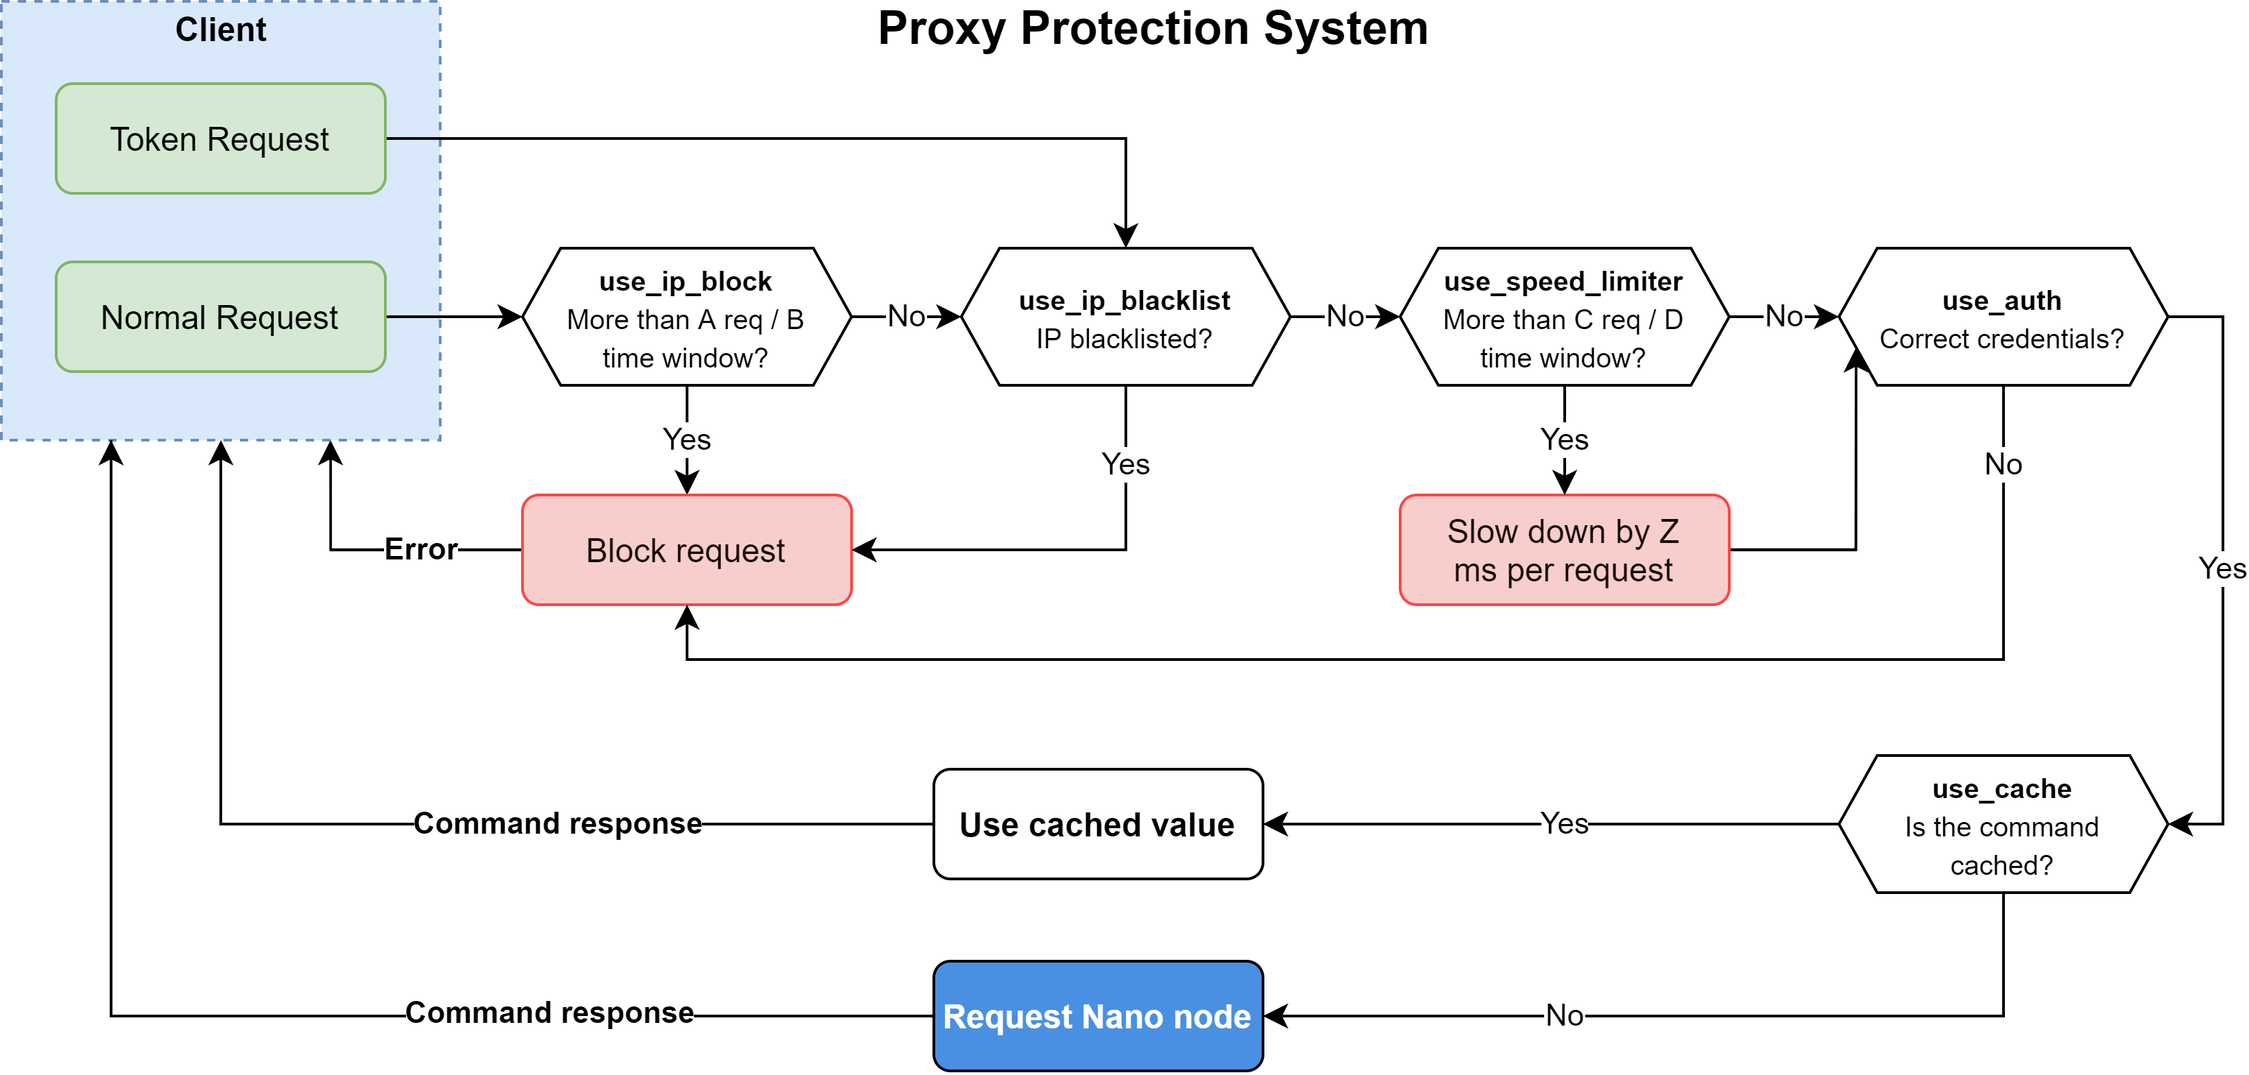
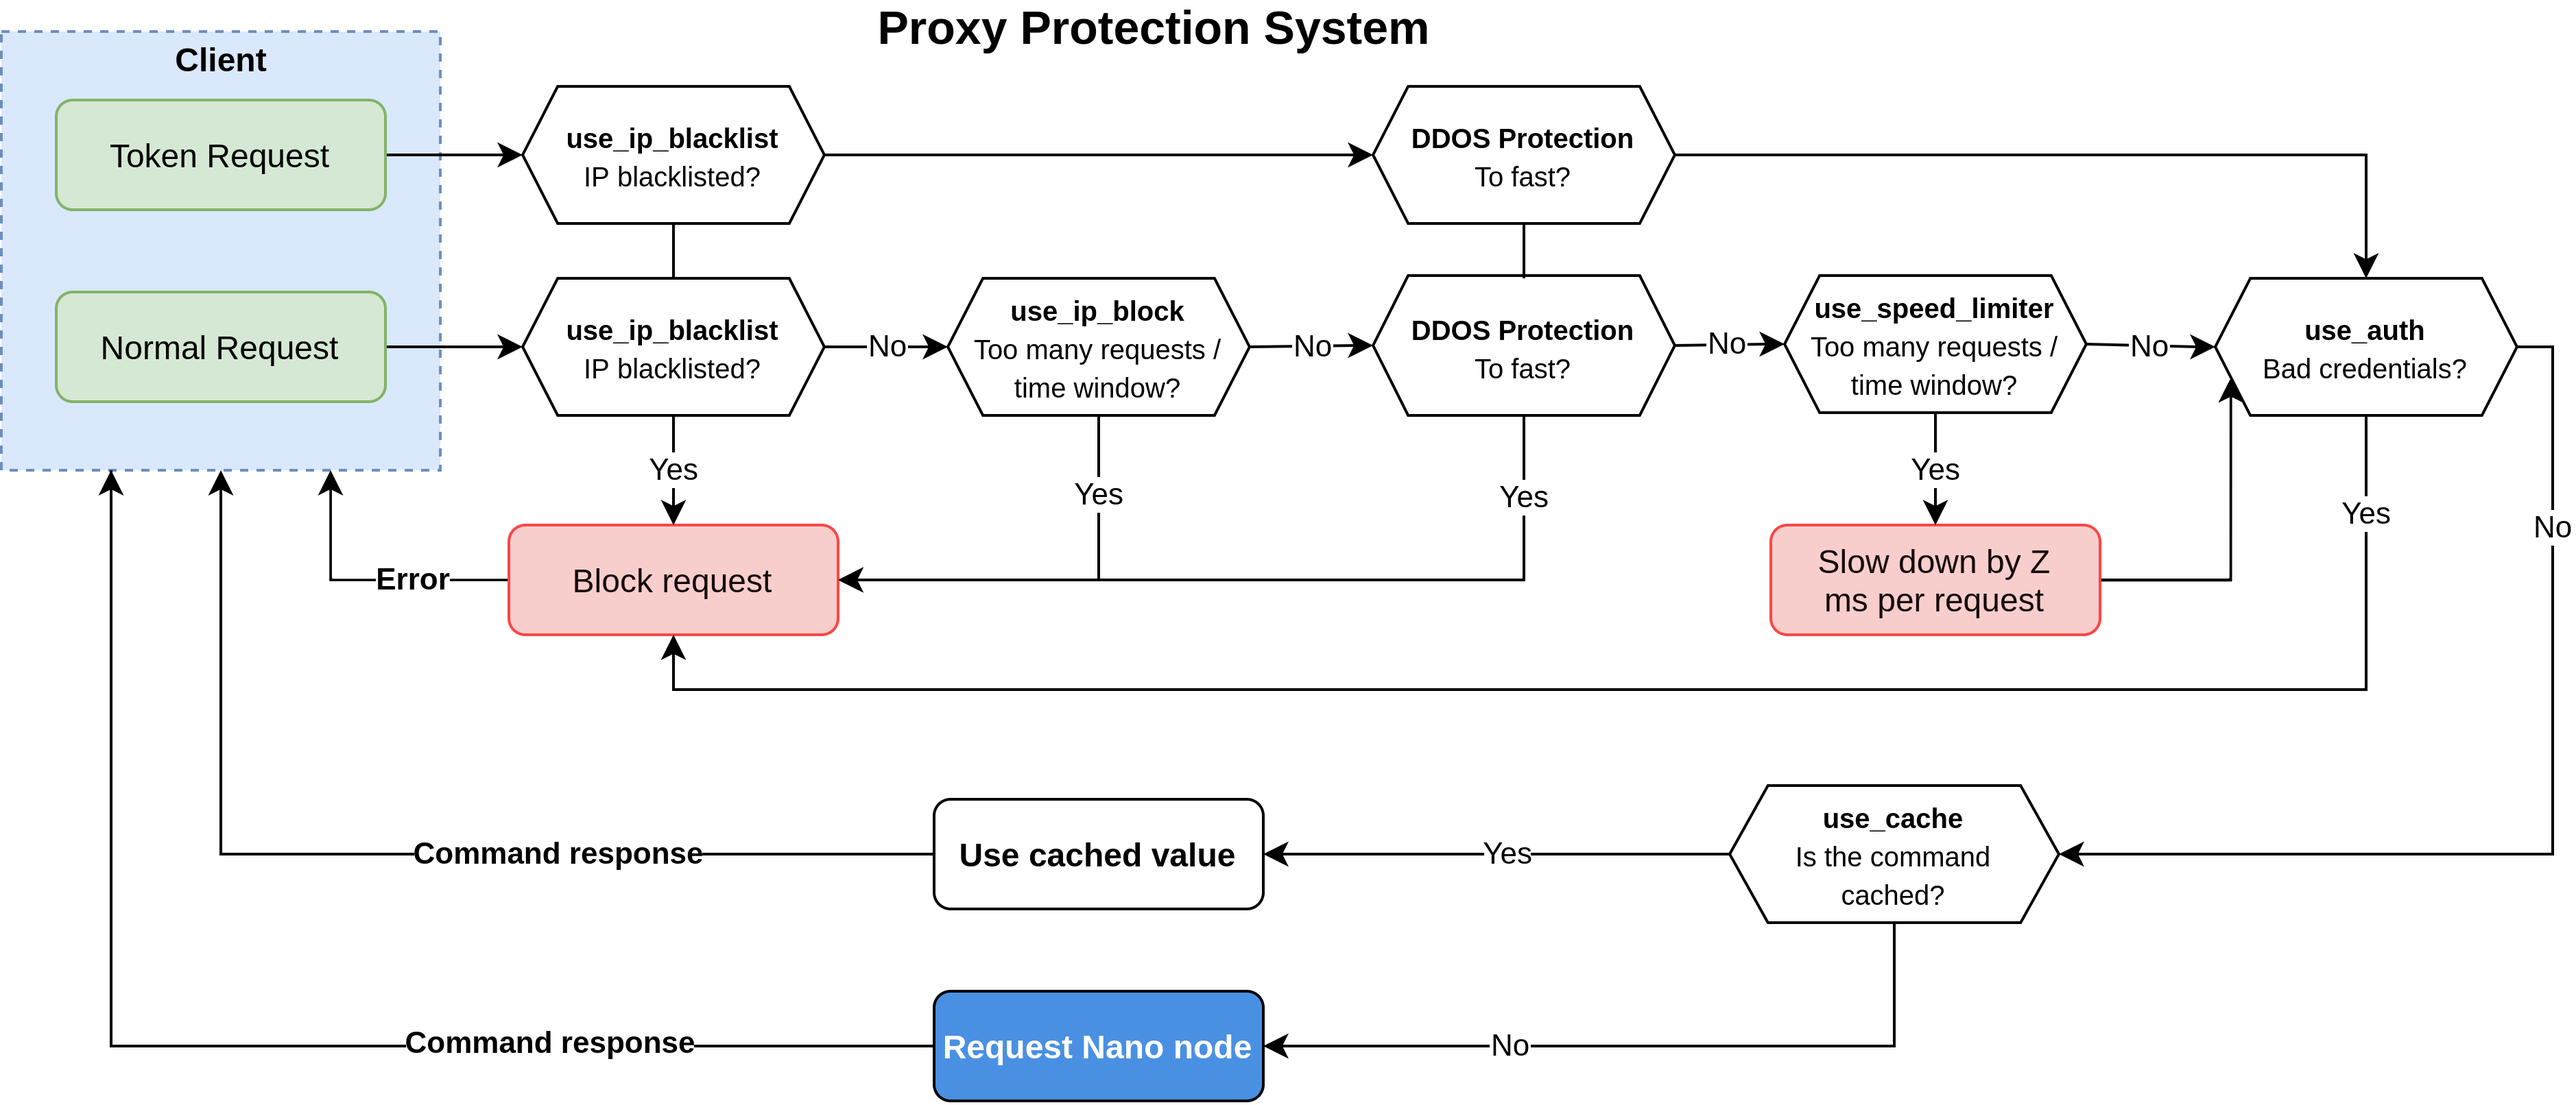
Better ddos protection

diff --git a/src/server/proxy.js b/src/server/proxy.js
@@ -2,7 +2,6 @@ require('dotenv').config() // load variables from .env into the environment
 require('console-stamp')(console)
 const NodeCache =     require("node-cache" )
 const SlowDown =      require("express-slow-down")
-const RateLimit =     require("express-rate-limit")
 const BasicAuth =     require('express-basic-auth')
 const Http =          require('http')
 const Https =         require('https')
@@ -16,6 +15,7 @@ const Schedule =      require('node-schedule')
 const Tokens =        require('./tokens')
 const Tools =         require('./tools')
 const log_levels = {none:"none", warning:"warning", info:"info"}
+const { RateLimiterMemory, RateLimiterUnion } = require('rate-limiter-flexible')
 
 // lowdb init
 const Low = require('lowdb')
@@ -59,6 +59,8 @@ const PriceUrl = 'https://api.coinpaprika.com/v1/tickers/nano-nano'
 //const PriceUrl2 = 'https://pro-api.coinmarketcap.com/v1/cryptocurrency/quotes/latest?id=1567'
 //const CMC_API_KEY = 'xxx'
 const API_TIMEOUT = 10000 // 10sec timeout for calling http APIs
+const DDOS_LIMIT_COUNT = 2 // no more than X requests allowed per DDOS_LIMIT_WINDOW
+const DDOS_LIMIT_WINDOW = 1 // X sec interval
 
 var user_use_cache = null
 var user_use_output_limiter = null
@@ -253,68 +255,9 @@ app.use(Cors())
 app.use(Express.json())
 app.use(Express.static('static'))
 
-// Define authentication service
-if (use_auth) {
-  app.use(BasicAuth({ authorizer: myAuthorizer }))
-}
-
 // Define the number of proxy hops on the system to detect correct source IP for the filters below
 if (proxy_hops > 0) {
   app.set('trust proxy', proxy_hops)
-}
-
-// Limit by slowing down requests
-if (use_speed_limiter) {
-  const speed_limiter_settings = SlowDown({
-    windowMs: speed_limiter.time_window, // rolling time window in ms
-    delayAfter: speed_limiter.request_limit, // allow x requests per time window, then start slowing down
-    delayMs: speed_limiter.delay_increment, // begin adding X ms of delay per request when delayAfter has been reached
-    maxDelayMs: speed_limiter.max_delay, // max delay in ms to slow down
-    // skip limit for certain requests
-    skip: function(req, res) {
-      if (use_tokens) {
-        if (req.body.action === 'tokenorder_check' || req.query.action === 'tokenorder_check') {
-          return true
-        }
-      }
-      return false
-    }
-  })
-  app.use(speed_limiter_settings)
-}
-
-// Block IP if requesting too much but skipped if a valid token_key is provided
-if (use_ip_block) {
-  const ip_block_settings = RateLimit({
-    windowMs: ip_block.time_window, // rolling time window in ms
-    max: ip_block.request_limit, // limit each IP to x requests per windowMs
-    message: 'You have sent too many RPC requests. You can try again later.',
-    // Check if token key exist in DB and have enough tokens, then skip IP block by returning true
-    skip: function(req, res) {
-      if (use_tokens) {
-        if ('token_key' in req.body && order_db.get('orders').find({token_key: req.body.token_key}).value()) {
-          if (order_db.get('orders').find({token_key: req.body.token_key}).value().tokens > 0) {
-            return true
-          }
-        }
-        if ('token_key' in req.query && order_db.get('orders').find({token_key: req.query.token_key}).value()) {
-          if (order_db.get('orders').find({token_key: req.query.token_key}).value().tokens > 0) {
-            return true
-          }
-        }
-        if (req.body.action === 'tokenorder_check' || req.query.action === 'tokenorder_check') {
-          return true
-        }
-      }
-      return false
-    }
-  })
-  app.use(ip_block_settings)
-}
-
-// Set up cache
-if (use_cache) {
-  rpcCache = new NodeCache( { stdTTL: cache_duration_default, checkperiod: 10 } )
 }
 
 // Set up blacklist and use the proxy number defined in the settings. Log only IP if blocked
@@ -331,6 +274,116 @@ app.use((err, req, res, _next) => {
     return res.status(500).json({error: err.status})
   }
 })
+
+// Define authentication service
+if (use_auth) {
+  app.use(BasicAuth({ authorizer: myAuthorizer }))
+}
+
+// Block IP if requesting too much but skipped if a valid token_key is provided
+if (use_ip_block) {
+  const limiter1 = new RateLimiterMemory({
+    keyPrefix: 'limit1',
+    points: ip_block.request_limit, // limit each IP to x requests per duration
+    duration: Math.round(ip_block.time_window/1000), // rolling time window in sec
+  })
+
+  const rateLimiterMiddleware1 = (req, res, next) => {
+    if (use_tokens) {
+      // Check if token key exist in DB and have enough tokens, then skip IP block by returning true
+      if ('token_key' in req.body && order_db.get('orders').find({token_key: req.body.token_key}).value()) {
+        if (order_db.get('orders').find({token_key: req.body.token_key}).value().tokens > 0) {
+          next()
+          return
+        }
+      }
+      if ('token_key' in req.query && order_db.get('orders').find({token_key: req.query.token_key}).value()) {
+        if (order_db.get('orders').find({token_key: req.query.token_key}).value().tokens > 0) {
+          next()
+          return
+        }
+      }
+      // Don't count order check here, we do that in the ddos protection step
+      if (req.body.action === 'tokenorder_check' || req.query.action === 'tokenorder_check') {
+        next()
+        return
+      }
+    }
+    limiter1.consume(req.ip)
+      .then((response) => {
+        res.set("X-RateLimit-Limit", ip_block.request_limit)
+        res.set("X-RateLimit-Remaining", ip_block.request_limit-response.consumedPoints)
+        res.set("X-RateLimit-Reset", new Date(Date.now() + response.msBeforeNext))
+        next()
+      })
+      .catch((rej) => {
+        res.set("X-RateLimit-Limit", ip_block.request_limit)
+        res.set("X-RateLimit-Remaining", Math.max(ip_block.request_limit-rej.consumedPoints, 0))
+        res.set("X-RateLimit-Reset", new Date(Date.now() + rej.msBeforeNext))
+        res.status(429).send('Max allowed requests of ' + ip_block.request_limit + ' reached. Time left: ' + Math.round(rej.msBeforeNext/1000) + 'sec')
+      })
+   }
+
+   app.use(rateLimiterMiddleware1)
+}
+
+// Ddos protection for all requests
+const limiter2 = new RateLimiterMemory({
+  //points: ip_block.request_limit, // limit each IP to x requests per duration
+  //duration: Math.round(ip_block.time_window / 1000), // rolling time window in sec
+  keyPrefix: 'limit2',
+  points: DDOS_LIMIT_COUNT, // limit each IP to x requests per duration
+  duration: DDOS_LIMIT_WINDOW, // rolling time window in sec
+})
+
+const rateLimiterMiddleware2 = (req, res, next) => {
+  limiter2.consume(req.ip)
+    .then((response) => {
+      next()
+    })
+    .catch((rej) => {
+      res.status(429).send('You are making requests too fast, please slow down!')
+    })
+ }
+
+ app.use(rateLimiterMiddleware2)
+
+// Limit by slowing down requests
+if (use_speed_limiter) {
+  const speed_limiter_settings = SlowDown({
+    windowMs: speed_limiter.time_window, // rolling time window in ms
+    delayAfter: speed_limiter.request_limit, // allow x requests per time window, then start slowing down
+    delayMs: speed_limiter.delay_increment, // begin adding X ms of delay per request when delayAfter has been reached
+    maxDelayMs: speed_limiter.max_delay, // max delay in ms to slow down
+    // skip limit for certain requests
+    skip: function(req, res) {
+      if (use_tokens) {
+        // Check if token key exist in DB and have enough tokens, then skip IP block by returning true
+        if ('token_key' in req.body && order_db.get('orders').find({token_key: req.body.token_key}).value()) {
+          if (order_db.get('orders').find({token_key: req.body.token_key}).value().tokens > 0) {
+            return true
+          }
+        }
+        if ('token_key' in req.query && order_db.get('orders').find({token_key: req.query.token_key}).value()) {
+          if (order_db.get('orders').find({token_key: req.query.token_key}).value().tokens > 0) {
+            return true
+          }
+        }
+
+        if (req.body.action === 'tokenorder_check' || req.query.action === 'tokenorder_check') {
+          return true
+        }
+      }
+      return false
+    }
+  })
+  app.use(speed_limiter_settings)
+}
+
+// Set up cache
+if (use_cache) {
+  rpcCache = new NodeCache( { stdTTL: cache_duration_default, checkperiod: 10 } )
+}
 
 // To verify username and password provided via basicAuth. Support multiple users
 function myAuthorizer(username, password) {

diff --git a/README.md b/README.md
@@ -17,9 +17,10 @@ Demo clients/code for Curl, JS, REACT, Python and Flask are available to test yo
 * Fully customizable via a settings file
 * Caching of certain request actions to lower the RPC burden
 * Limits number of response objects, like number of pending transactions
-* Slows down IPs that doing requests above limit (Including purchased tokens)
-* Blocks IPs for a certain amount of time that are doing requests above limit (Overridden by purchased tokens)
-* IP black list (Overrides purchased tokens)
+* Slows down IPs that doing requests above limit
+* IP filter for max allowed requests per time window (Overridden by purchased tokens)
+* Extra DDOS protection layer (defaults to max 2 requests/sec, also for purchased tokens)
+* IP black list (also for purchased tokens)
 * Supports basic authentication (username / password)
 * Supports multiple users via authentication
 * User specific settings override
